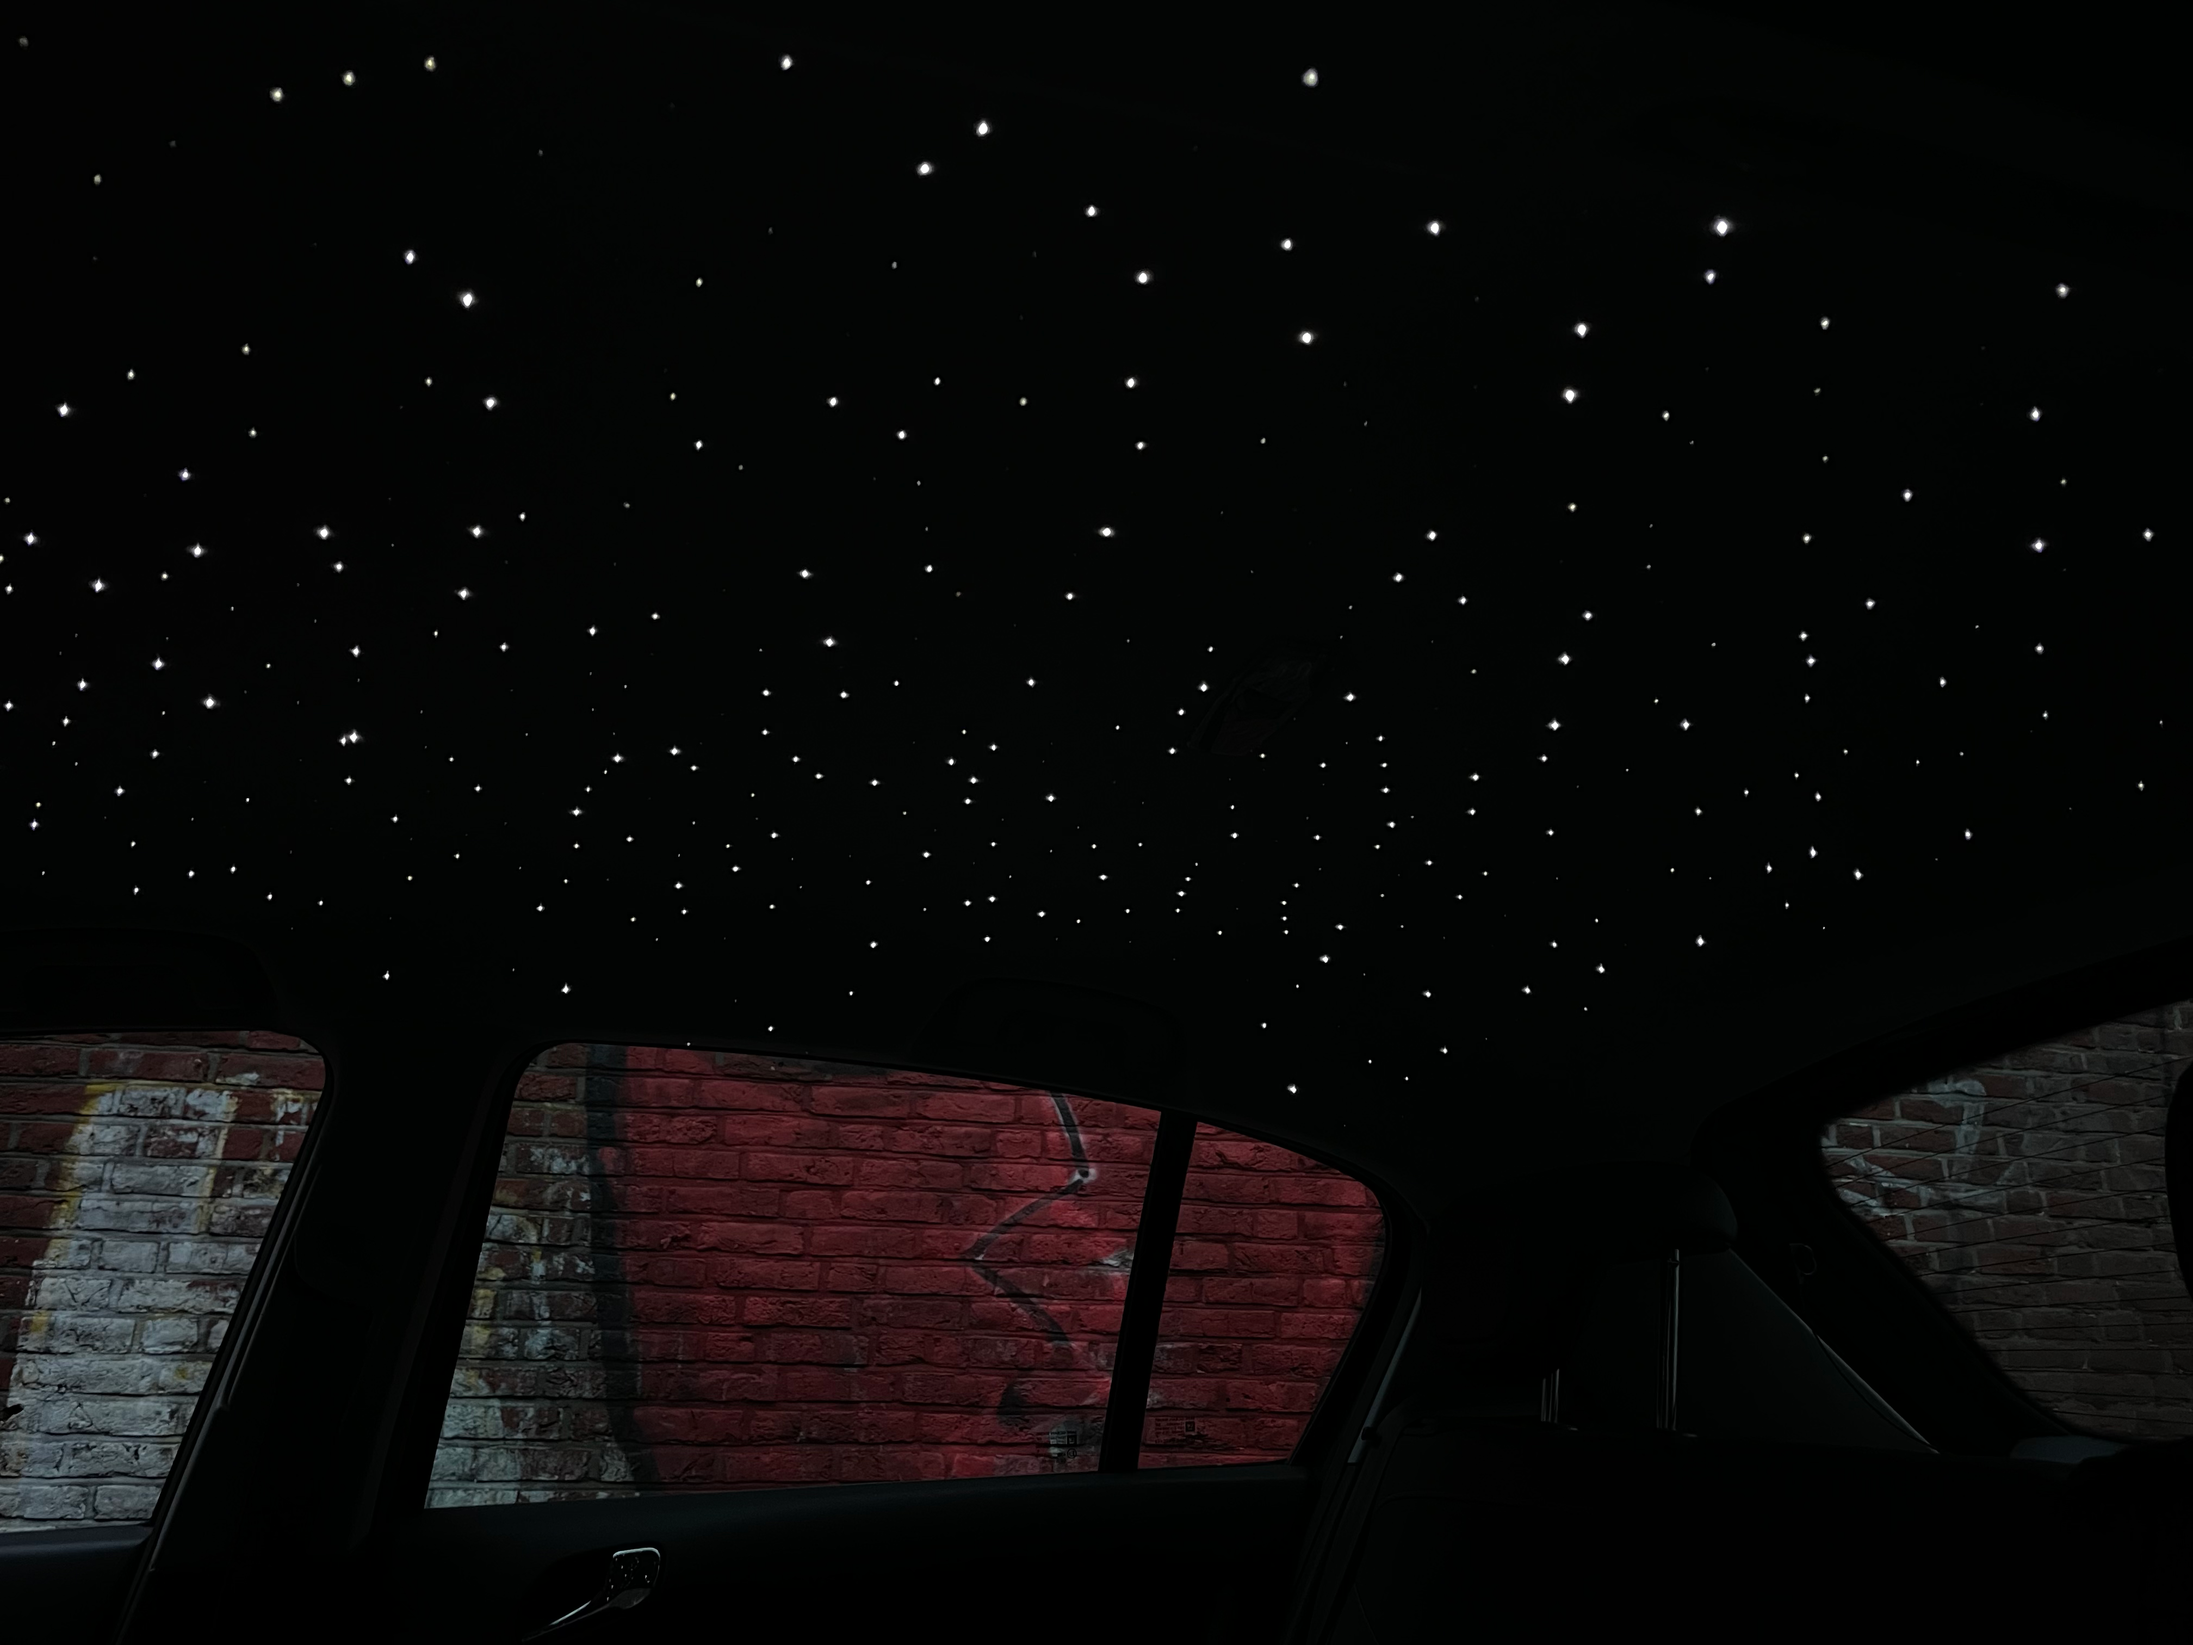
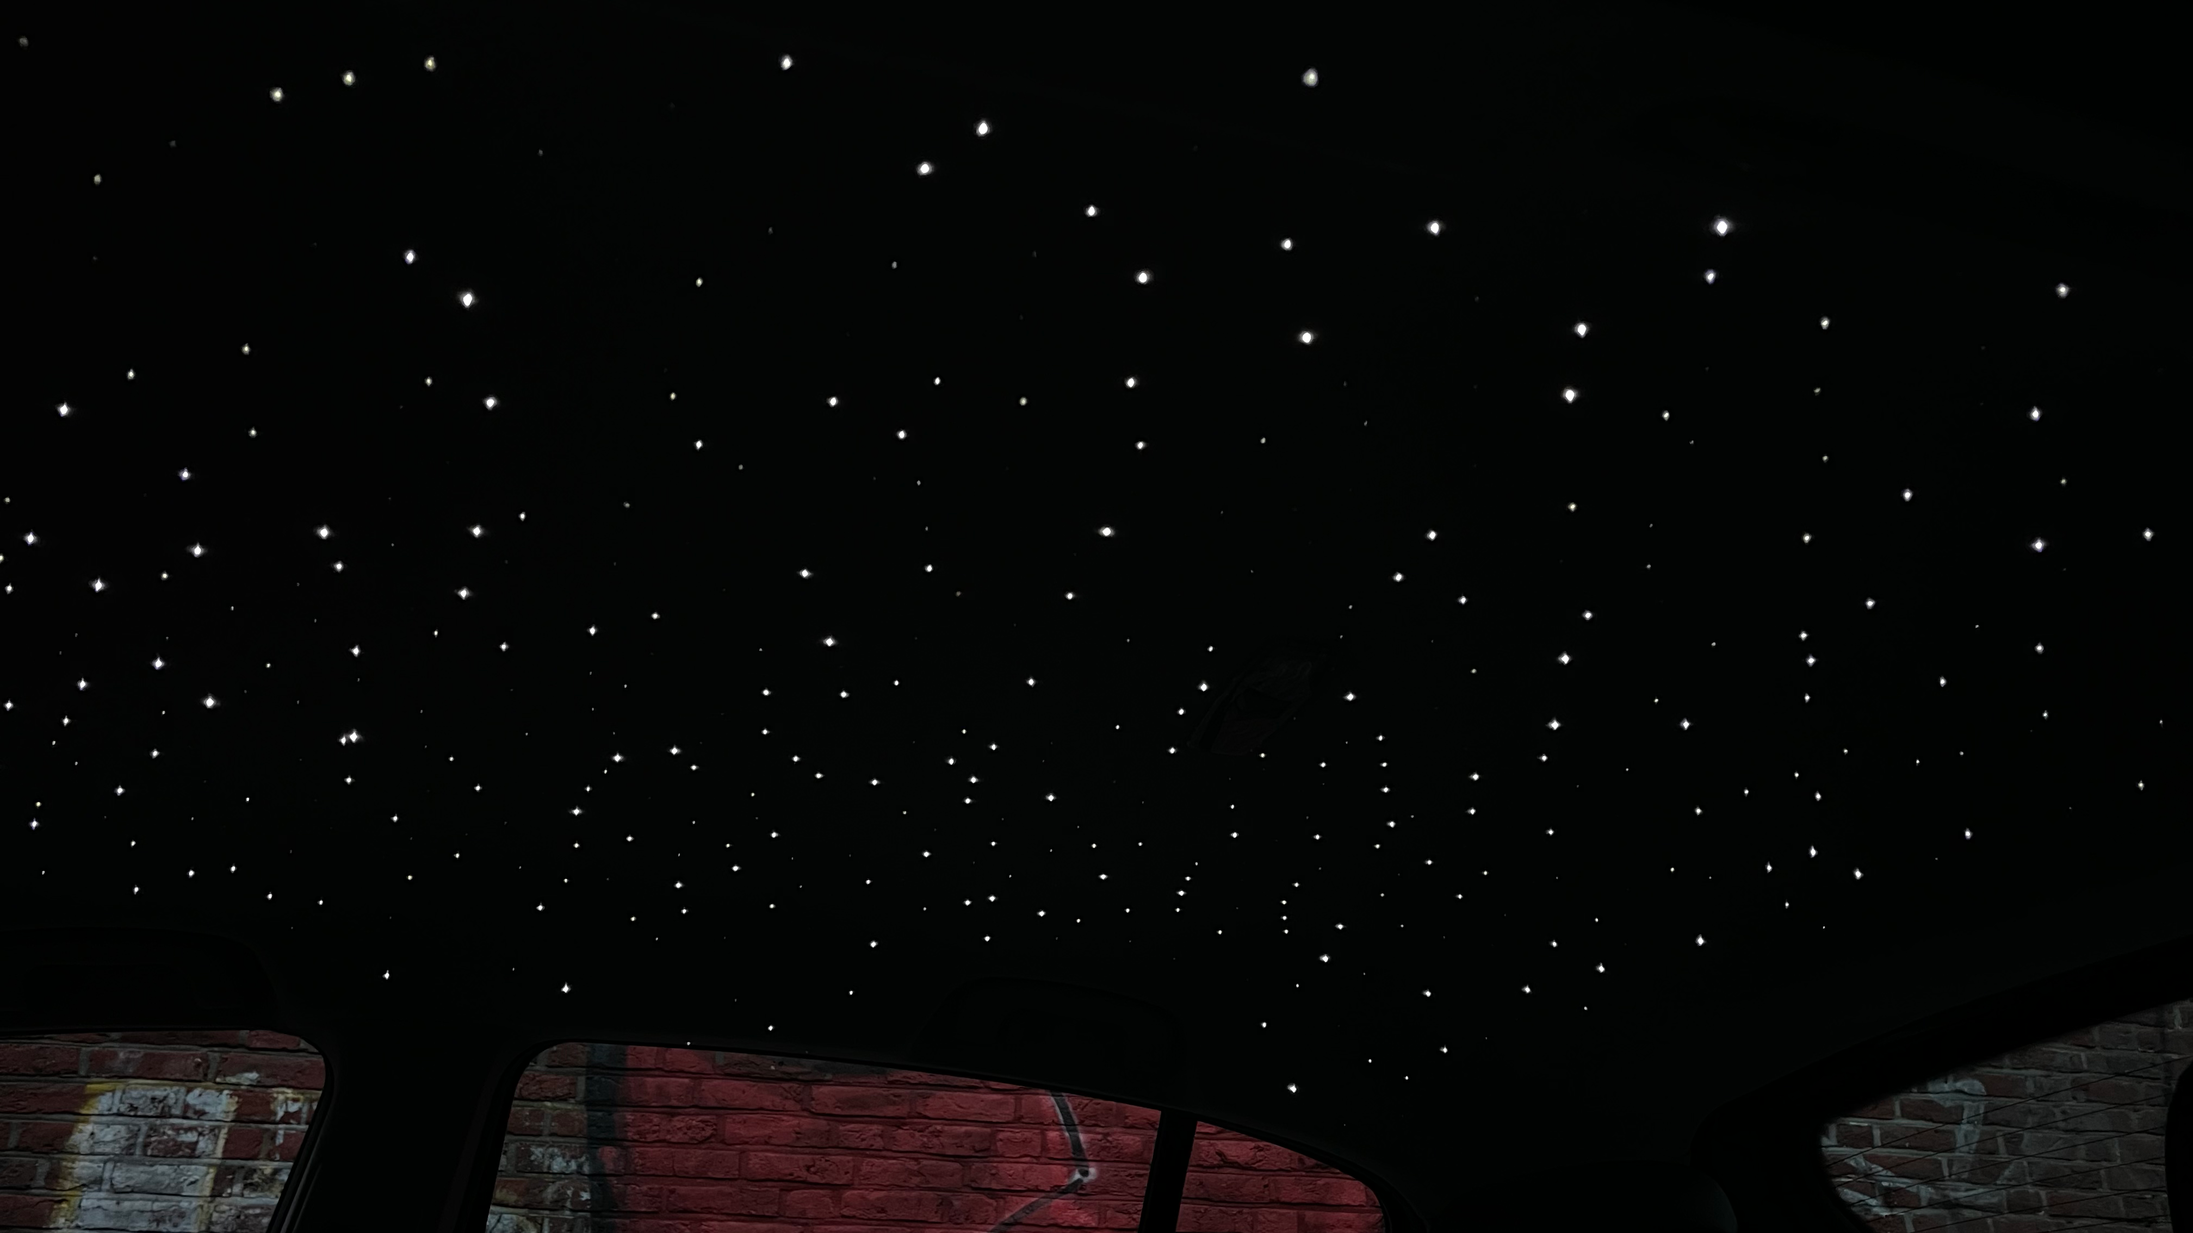
add a lot

diff --git a/index.html b/index.html
@@ -118,7 +118,7 @@
             <div class="section-wrapper">
                 <h3>Kleuren</h3>
                 <figure>
-                    <img src="assets/media/StockPhotos/ceiling5.png" alt="" title="">
+                    <img src="assets/media/realfotos/horizontal/IMG_9367.png" alt="" title="">
                 </figure>
                 <p>U kunt de sterrenhemel elke kleur naar wens geven. Er is ook de mogelijkheid om de kleuren
                     automatisch te
@@ -129,7 +129,7 @@
             <div class="section-wrapper">
                 <h3>Dimbaar</h3>
                 <figure>
-                    <img src="assets/media/StockPhotos/RollsRoyceStarCeiling.jpg" alt="" title="">
+                    <img src="assets/media/realfotos/horizontal/IMG_9368.png" alt="" title="">
                 </figure>
                 <p>De helderheid van de sterrenhemel is volledig verstelbaar. Had u liever een wat heldere sterrenhemel, dan kunnen wij deze ook steken!</p>
             </div>
@@ -176,14 +176,14 @@
                     <button data-navigate="contact" class="button">Contacteer ons</button>
                 </div>
                 <figure>
-                    <img src="assets/media/StockPhotos/ceiling5.png" alt="" title="">
+                    <img src="assets/media/realfotos/horizontal/IMG_9367.png" alt="" title="">
                 </figure>
             </div>
         </section>
         <section class="dimbaar">
             <div class="wrapper animate-in-viewport">
                 <figure>
-                    <img src="assets/media/StockPhotos/RollsRoyceStarCeiling.jpg" alt="" title="">
+                    <img src="assets/media/realfotos/horizontal/IMG_9368.png" alt="" title="">
                 </figure>
                 <div class="informatie rechts">
                     <h3>Dimbaar</h3>
@@ -203,14 +203,14 @@
                     <button data-navigate="contact" class="button">Contacteer ons</button>
                 </div>
                 <figure>
-                    <img src="assets/media/StockPhotos/ceiling5.png" alt="" title="">
+                    <img src="assets/media/realfotos/horizontal/IMG_9398.png" alt="" title="">
                 </figure>
             </div>
         </section>
         <section class="meer">
             <div class="wrapper animate-in-viewport">
                 <figure>
-                    <img src="assets/media/StockPhotos/RollsRoyceStarCeiling.jpg" alt="" title="">
+                    <img src="assets/media/realfotos/horizontal/IMG_9400.png" alt="" title="">
                 </figure>
                 <div class="informatie rechts">
                     <h3>Nog zoveel meer</h3>
@@ -228,7 +228,7 @@
                     <button data-navigate="exploreTheStars" class="button">Explore the stars</button>
                 </div>
                 <figure>
-                    <img src="assets/media/StockPhotos/ceiling5.png" alt="" title="">
+                    <img src="assets/media/realfotos/horizontal/IMG_9408.png" alt="" title="">
                 </figure>
             </div>
         </section>
